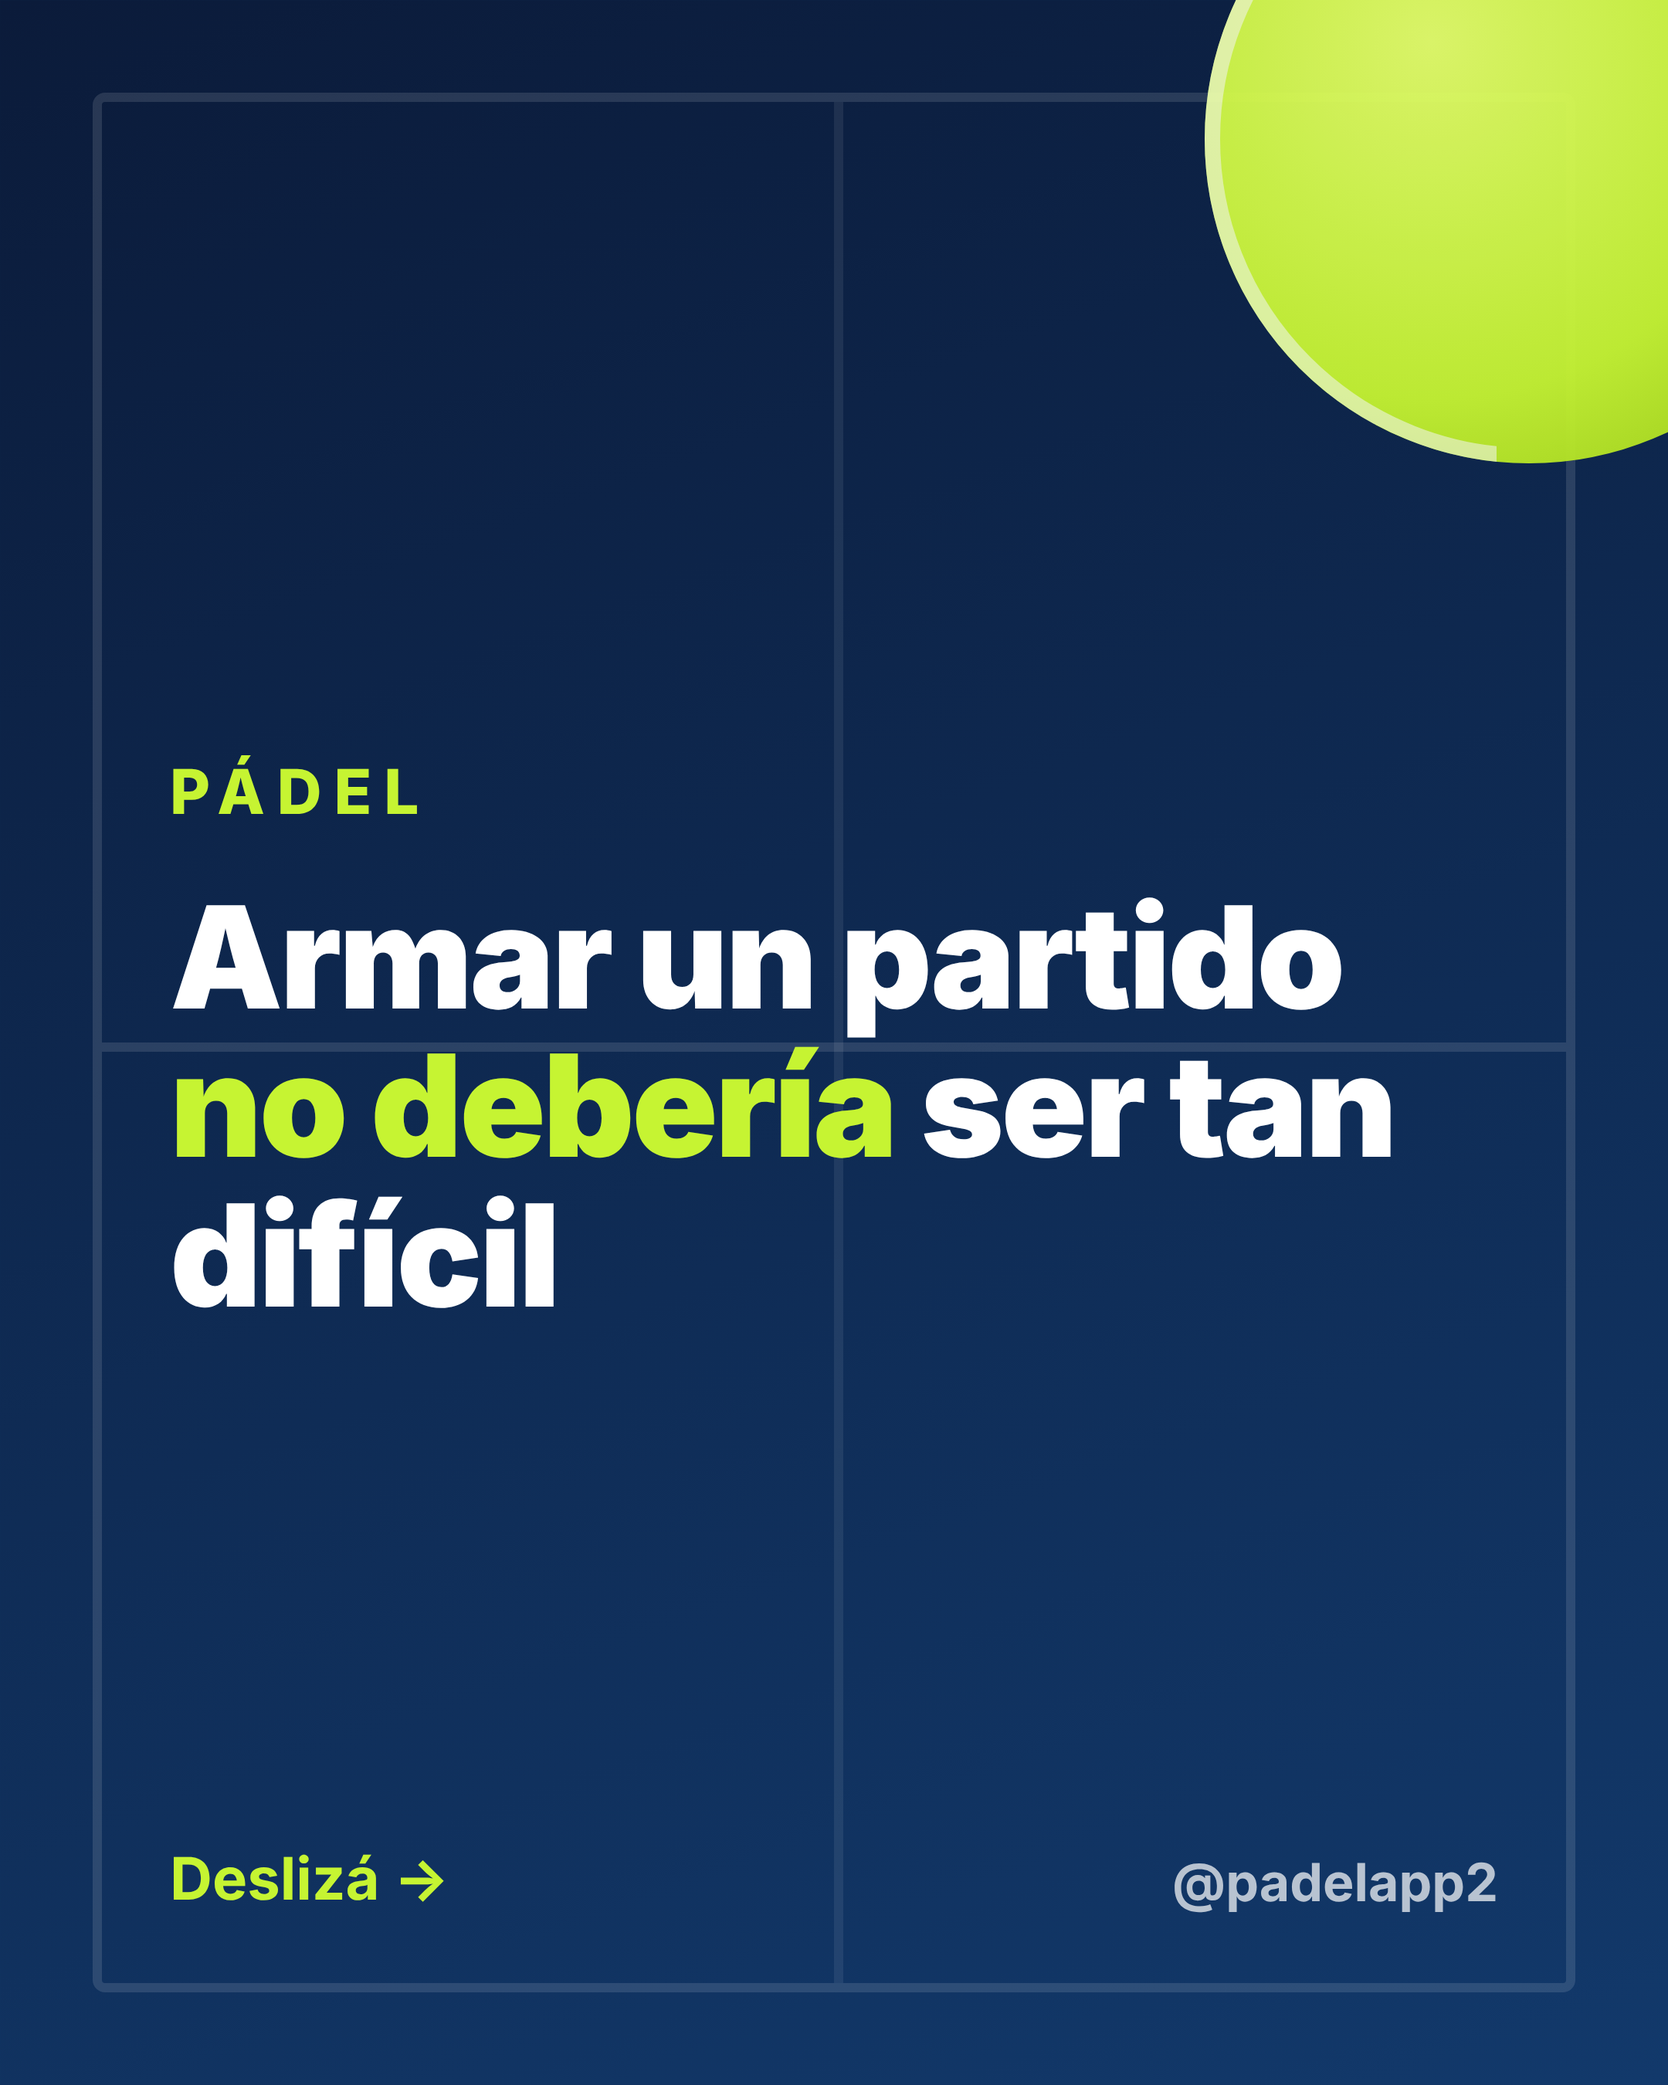
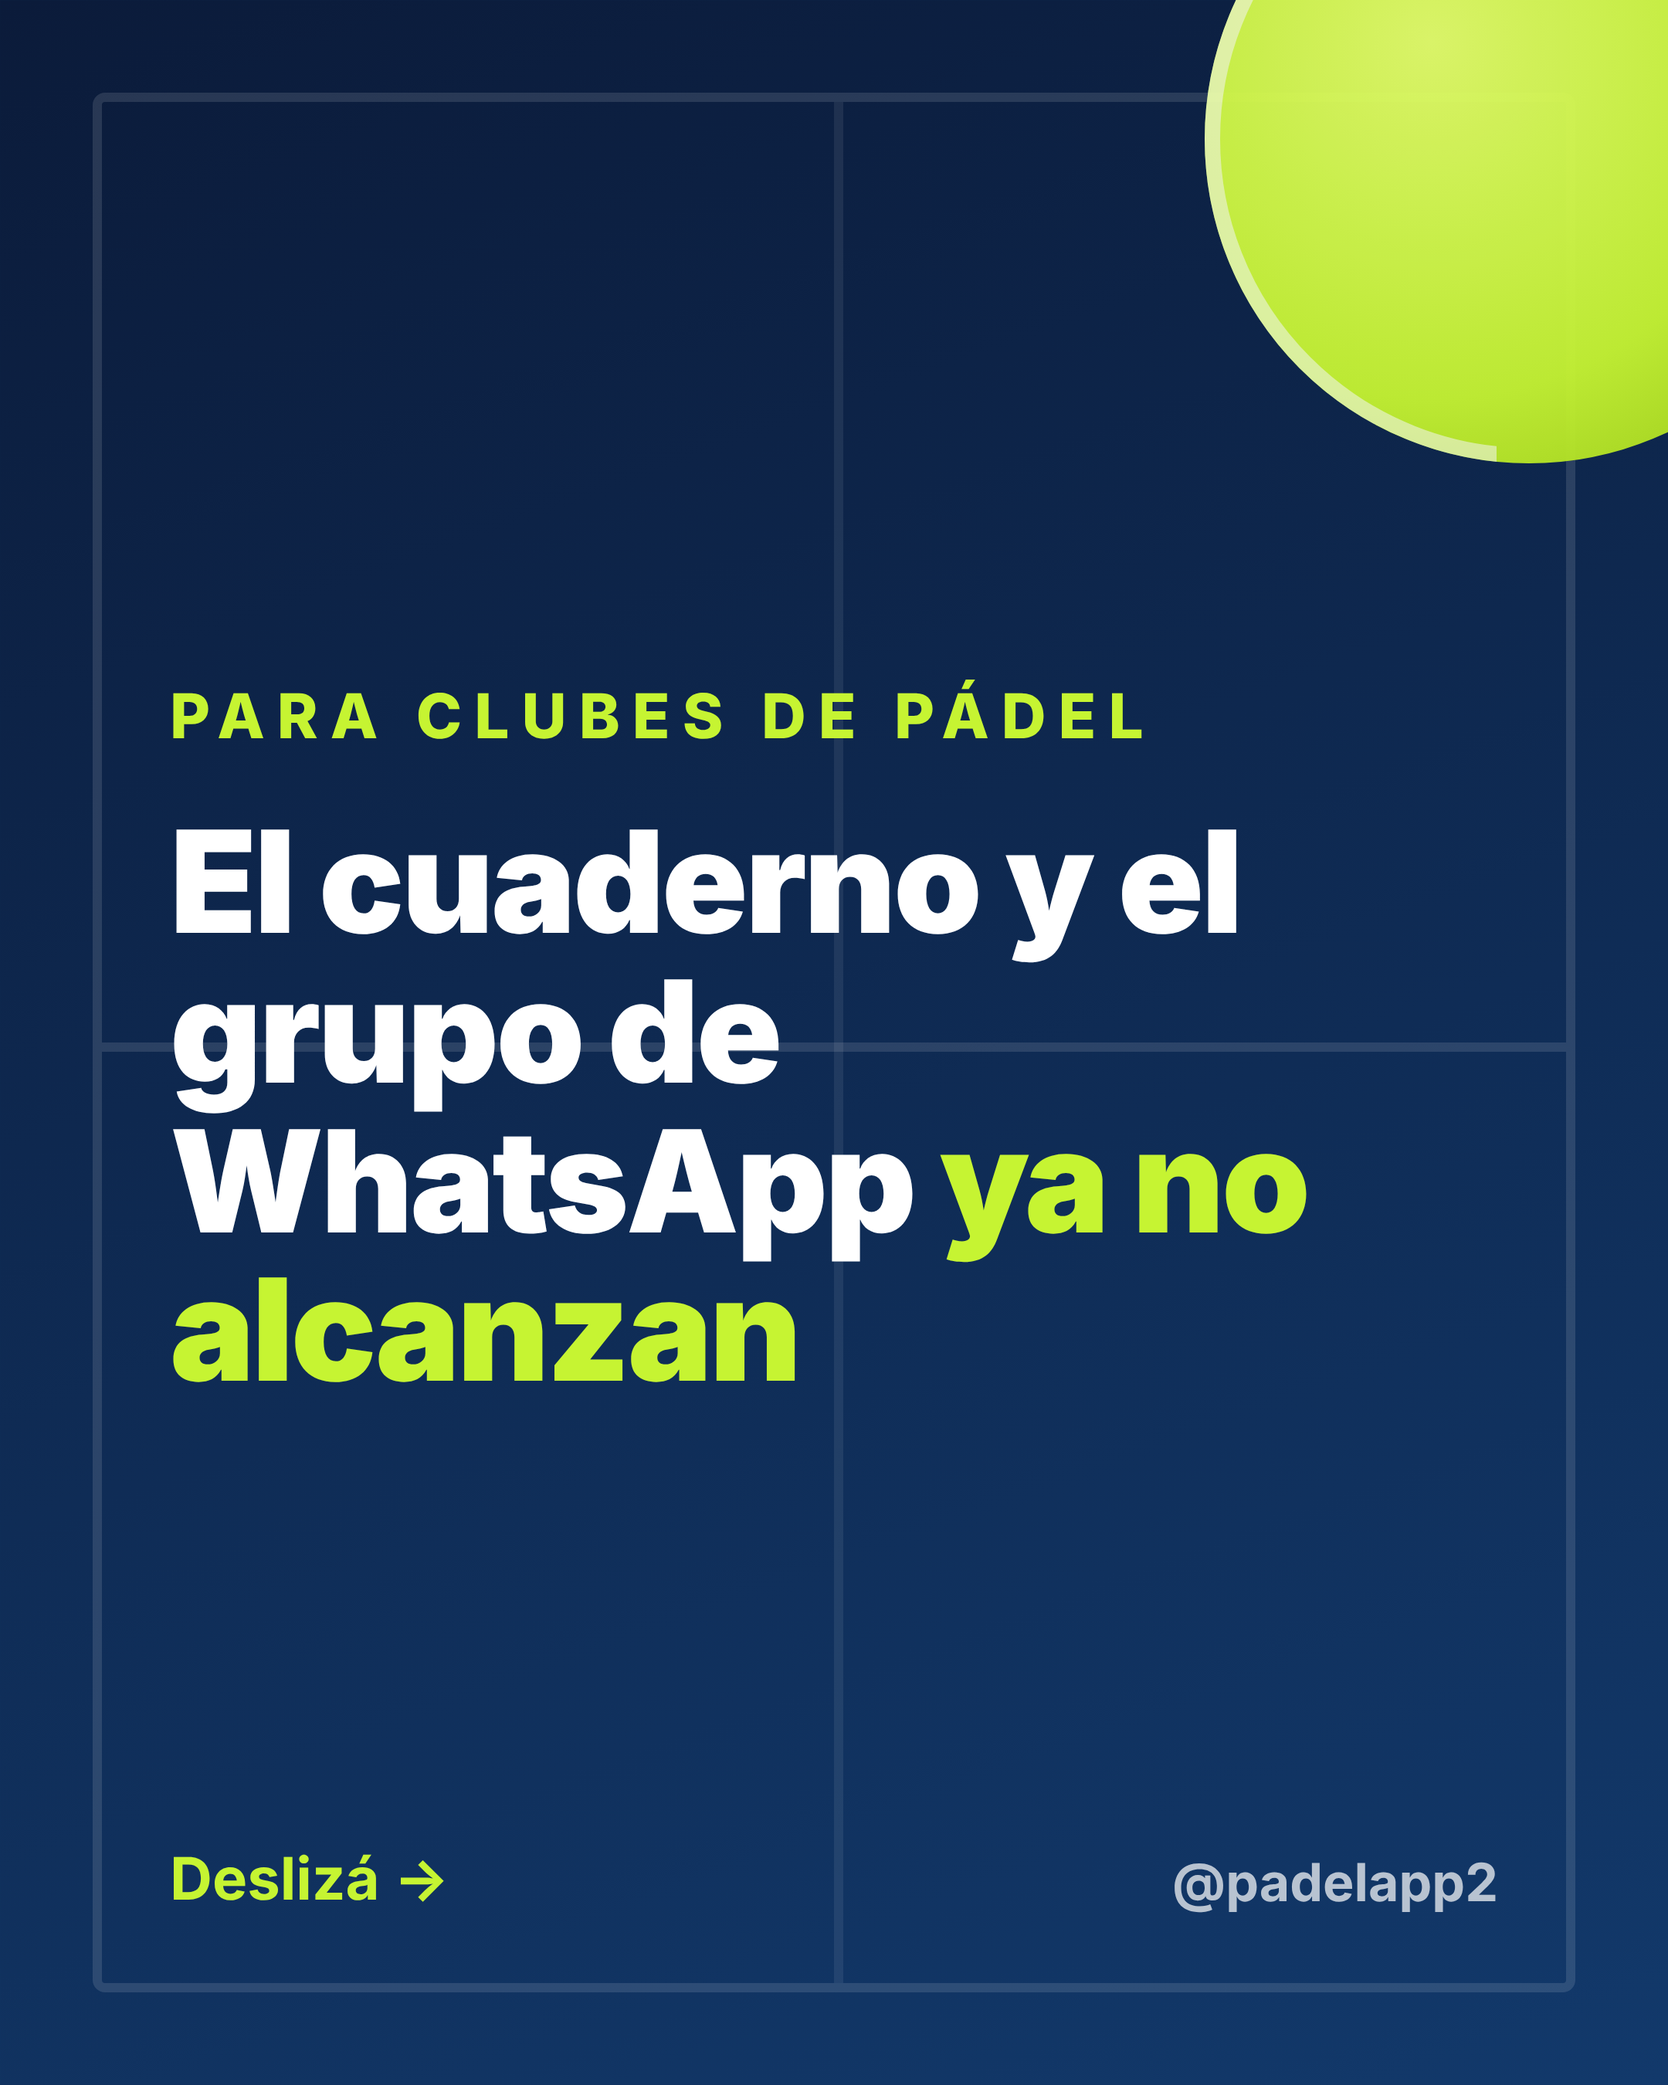
Reorienta contenido de @padelapp2 a clubes (según padelapp2.com)
Claude-Session: https://claude.ai/code/session_01To1USFuoeSKXDPQAnvhjhw

Changed region(s): [[0.0931, 0.3111, 0.8375, 0.6844], [0.4653, 0.3111, 0.6824, 0.3733]]

diff --git a/padelapp2/PLAN-padelapp2.md b/padelapp2/PLAN-padelapp2.md
@@ -1,98 +1,97 @@
-# @padelapp2 · Plan de Community Manager (borrador v1)
+# @padelapp2 · Plan de Community Manager (v2, basado en padelapp2.com)
 
-> **Supuestos a corregir:** Padelapp = app para reservar canchas y armar partidos de pádel. Público: jugadores (clientes finales)
-> y clubes (quienes cargan sus canchas). Zona: Argentina. Tono: cercano, voseo, humor de cancha.
-> Todo lo marcado con `[COMPLETAR]` necesita datos reales de la app (link, funciones, precios, ciudad).
+## 1. Qué vendemos y a quién
+- **Producto:** sistema de gestión web para clubes de pádel. Agenda por cancha, reservas online de los jugadores (sin instalar nada), caja, clientes, buffet, torneos, reportes y tesorería.
+- **Cliente a conseguir:** dueños y administradores de clubes de pádel (Buenos Aires y Argentina). Los jugadores son un canal secundario: reservan desde el celular y empujan al club a adoptar el sistema.
+- **Precios publicados (mensual):** Starter $45.000 (hasta 3 canchas) · Pro $70.000 (hasta 4 canchas, buffet, torneos, facturación, WhatsApp) · Enterprise $150.000 (ilimitado, varias sedes).
+- **Oferta:** 30 días gratis en cualquier plan.
+- **Contacto de venta:** WhatsApp wa.me/542273418842 · padelapp2@gmail.com.
+- **Frases propias de la web (usarlas, ya son la voz de marca):** "Tus jugadores reservan solos. Vos manejás todo el club." · "El cuaderno y el grupo de WhatsApp ya no alcanzan." · "Todo tu club en un solo lugar."
+- **Tono:** directo, voseo, frases cortas, problema → solución.
 
-## 1. Posicionamiento
-- **Promesa:** "Jugá más. Organizá menos."
-- **Dolor que atacamos:** grupos de WhatsApp caóticos, el que se baja a último momento, canchas que no se consiguen.
-- **Dos audiencias, dos mensajes:**
-  - Jugadores → comodidad, partidos completos, reservar rápido.
-  - Clubes → llenar horarios valle, menos llamados y planillas, más reservas.
-- **Identidad visual:** azul marino `#0B1B3A`→`#12396B`, verde pelota `#C6F432`, tipografía Inter negrita. (Cambiar si ya tienen logo y colores.)
+## 2. Objetivo y embudo
+Perfil de Instagram → mensaje por DM o WhatsApp → demo (`/agenda`) → 30 días gratis → plan pago.
+- **Bio sugerida:** "Sistema de gestión para clubes de pádel 🎾 Agenda, caja, buffet y torneos. Tus jugadores reservan solos. 30 días gratis 👇" + link a padelapp2.com o al WhatsApp.
+- **Pendiente:** la web no tiene enlaces a Instagram. Conviene agregar el perfil en el pie de la web.
 
-## 2. Cadencia
-- Feed: 3 por semana (martes, jueves, sábado) · Reels: 2 de esos 3.
-- Stories: 1 a 3 por día con encuestas y "falta uno".
-- Horarios sugeridos para probar (se ajustan con las métricas reales): 12:30, 19:30 y 21:00.
-- Responder comentarios y DMs en menos de 2 horas en horario hábil.
+## 3. Cadencia
+- Feed: 3 por semana (martes, jueves, sábado), 2 de ellos en reel.
+- Stories: 1 a 3 por día, con encuestas y capturas de la demo.
+- Horarios para probar: clubes y administradores responden mejor entre semana, de 9 a 11 h y de 15 a 17 h. Ajustar con las métricas reales.
 
-## 3. Calendario semana 1 (lista para publicar)
-
+## 4. Semana 1 (piezas listas en `contenido/`)
 | Día | Formato | Pieza | Caption |
 |---|---|---|---|
-| Mar | Carrusel (5) | `carrusel-01` a `carrusel-05` | Ver caption A |
-| Jue | Reel (15–20 s) | Guion R1 | Ver caption B |
-| Sáb | Imagen | `clubes-canchas-vacias.png` | Ver caption C |
-| Todos | Story | `story-falta-uno.png` + sticker de link | "¿Te falta uno hoy? 👇" |
+| Mar | Carrusel (5) | `carrusel-01` a `carrusel-05` | A |
+| Jue | Reel | Guion R1 | B |
+| Sáb | Imagen | `planes-precios.png` | C |
+| Todos | Story | `story-cuaderno.png` + sticker de link y encuesta | "¿Todavía en cuaderno? 👀" |
 
 **Caption A (carrusel):**
-> Armar un partido no debería ser tan difícil 😮💨
-> Grupo de WhatsApp con 40 mensajes, uno que se baja a último momento… y la cancha sin reservar.
-> En Padelapp ves canchas, armás el partido y reservás en pocos toques.
-> Descargala desde el link en bio 👆
-> ¿Cuántas veces te pasó? Contanos en los comentarios 👇
-> #padel #padelargentina #padelamigos #jugamospadel #padelapp
+> ¿Todavía anotás los turnos en un cuaderno? 📒
+> El cuaderno y el grupo de WhatsApp ya no alcanzan.
+> Con PadelApp2 manejás agenda, caja, buffet, torneos y reportes en un solo lugar, y tus jugadores reservan solos desde el celular.
+> Probalo 30 días gratis. Escribinos por DM o desde el link en bio 👆
+> #clubdepadel #padelargentina #gestiondeclubes #padel #canchasdepadel
 
 **Caption B (reel):**
-> Cuando alguien se baja 10 minutos antes… 🫠 Con Padelapp lo cubrís en un toque. Link en bio.
-> #padel #padelargentina #padelreels #falta1
+> Así se ve el turno de un club con y sin sistema 👇 Arrastrás, soltás y listo: sin superposiciones. 30 días gratis, link en bio.
+> #clubdepadel #padelargentina #gestiondeclubes
 
-**Caption C (clubes):**
-> ¿Tu club tiene canchas vacías en horarios valle? 🎾
-> Padelapp te ayuda a llenarlas. Escribinos por DM y te contamos cómo.
-> #clubdepadel #padelargentina #gestionclubes
+**Caption C (planes):**
+> Un plan para cada tamaño de club 🎾 Desde $45.000/mes y 30 días gratis en cualquiera. Mirá los planes en padelapp2.com o escribinos por DM.
+> #clubdepadel #padelargentina #emprendedoresdelpadel
 
-**Guion Reel R1 "Falta uno" (15–20 s):**
-1. (0–3 s) Texto en pantalla: "10 min antes del partido…" Plano de celular con grupo de WhatsApp.
-2. (3–7 s) Mensajes: "me bajo", "no puedo", "¿quién se suma?". Cara de resignación.
-3. (7–14 s) Grabación de pantalla de la app: buscar partido → sumarse → confirmado. `[COMPLETAR con capturas reales]`
-4. (14–18 s) Texto: "Falta uno resuelto." + logo + "Link en bio".
-- Audio: tema en tendencia de pádel o sonido original. Subtítulos siempre.
+**Guion Reel R1 "Cuaderno vs. agenda" (15–20 s):**
+1. (0–4 s) Cuaderno con turnos tachados y un celular que suena. Texto: "Turno doble. Otra vez."
+2. (4–12 s) Grabación de pantalla de `/agenda`: arrastrar un turno, cobrar en el momento. Texto: "Sin superposiciones".
+3. (12–16 s) Pantalla de reservas del jugador: "Tus jugadores reservan solos".
+4. (16–20 s) Logo + "30 días gratis · Link en bio".
+- Usar la demo real de padelapp2.com/agenda. Subtítulos siempre.
 
-## 4. Ideas para las semanas 2–4
-- **Semana 2:** "3 errores que todos cometemos en la bandeja" (educativo) · reel POV "el que siempre llega tarde" · testimonio de un jugador.
-- **Semana 3:** tour de la app en 30 s (reel) · carrusel "cómo reservar en 3 pasos" · encuesta en stories "¿derecha o revés?".
-- **Semana 4:** caso de un club `[COMPLETAR]` · sorteo (una hora de cancha o una pala) para ganar seguidores · recopilación de lo mejor del mes.
-- **Fijos:** 1 reel de humor por semana, 1 de utilidad, 1 de prueba social.
+## 5. Ideas para las semanas 2–4
+- **Semana 2:** "5 cosas que pierde un club por no tener cierre de caja" · reel del buffet (stock y cobro integrado) · carrusel de torneos (cuadro automático).
+- **Semana 3:** "¿Cuánto vale una hora de cancha vacía?" (calculadora simple) · reel del reporte de ocupación · testimonio de un club real.
+- **Semana 4:** comparación de planes Starter y Pro · caso de uso de un club chico · preguntas frecuentes en stories.
+- **Prueba social:** la web muestra una franja de clubes que usan el sistema. Pedir permiso para mostrar casos reales antes de nombrarlos.
 
-## 5. Captación por mensajes (DM)
-**Regla:** nada de DMs masivos en frío (Instagram limita la cuenta). Máximo 15–20 mensajes personalizados por día, primero interactuar con el contenido del club (seguir, comentar, ver stories).
+## 6. Captación por mensajes (DM y WhatsApp)
+**Regla:** nada de DMs masivos en frío (Instagram limita la cuenta). Máximo 15–20 por día, personalizados, interactuando antes con la cuenta del club (seguir, comentar, ver stories).
 
 **Primer mensaje a un club:**
-> Hola [Club] 👋 Soy [Nombre] de Padelapp. Vimos que tienen [N] canchas y queríamos preguntarte algo: ¿tienen horarios que les cuesta llenar? Ayudamos a clubes a que los jugadores reserven y armen partidos desde el celular. Si te interesa te cuento en 2 minutos cómo funciona.
+> Hola [Club] 👋 Soy [Nombre] de PadelApp2. Vi que tienen [N] canchas. Hacemos un sistema para clubes de pádel: agenda por cancha, reservas online de los jugadores, caja, buffet y torneos. ¿Hoy cómo llevan los turnos, cuaderno o algún sistema?
 
-**Seguimiento (a los 3 días, si no responde):**
-> ¡Hola de nuevo! Sin apuro 🙂 Te dejo una captura de cómo se ve para el jugador. Si querés, te armo una prueba gratis para [Club]. `[COMPLETAR oferta]`
+**Seguimiento (3 días después):**
+> ¡Hola de nuevo! Te dejo la demo para que la veas sin compromiso: padelapp2.com/agenda. Y si querés, arrancan 30 días gratis con [Club].
 
-**Primer mensaje a un jugador que comenta o sigue la cuenta:**
-> ¡Gracias por seguirnos! 🎾 ¿Jugás seguido? Si querés armar partidos más fácil, te paso el link para probar Padelapp.
+**Si el club dice que sí:**
+> ¡Genial! Te escribo por WhatsApp para armar tu club: wa.me/542273418842. En 15 minutos lo dejamos cargado.
 
 **Objeciones frecuentes:**
-- "Ya usamos otra cosa" → "Perfecto, ¿qué es lo que menos te gusta de ese sistema?"
-- "Es caro" → "Entendido. Probemos sin costo con tus horarios valle y vemos si suma." `[COMPLETAR]`
-- "No tengo tiempo" → "Lo cargamos nosotros. Son 15 minutos."
+- "Ya tenemos un sistema" → "Perfecto. ¿Qué es lo que menos te gusta de ese sistema? Muchos clubes nos cuentan que lo más pesado es [caja/torneos/buffet]."
+- "Es caro" → "Entiendo. Probás 30 días gratis y medís cuántas reservas nuevas entran. El Starter sale $45.000 por mes."
+- "Mis jugadores no van a usarlo" → "No instalan nada: reservan desde el celular con un link. Lo probamos con tus horarios valle."
 
-**Respuestas rápidas a comentarios:** "¿Dónde la descargo?" → "Link en bio 👆 ¡Gracias por preguntar!"
-
-## 6. Publicidad (Meta Ads) — plan inicial
-**Presupuesto sugerido para probar:** USD 5–10 por día durante 2 semanas `[COMPLETAR según el presupuesto real]`.
+## 7. Publicidad (Meta Ads)
+Presupuesto de prueba: USD 5–10 por día durante 2 semanas `[COMPLETAR]`.
 
 | Campaña | Objetivo | Público | Creatividad |
 |---|---|---|---|
-| A. Descargas | Instalaciones de la app | 18–45 años, intereses: pádel, tenis, deportes de raqueta, en tu zona | Carrusel 01–05 y reel R1 |
-| B. Clubes | Mensajes (WhatsApp o Instagram) | Dueños y administradores de clubes: intereses en gestión de clubes deportivos, radio 15–30 km | `clubes-canchas-vacias.png` |
-| C. Retargeting | Conversiones | Quienes vieron el 50 % del reel o visitaron el perfil | Testimonio o oferta |
+| A. Clubes por WhatsApp | Mensajes a WhatsApp | Argentina, 25–60 años, intereses: pádel, gestión de clubes, emprendedores deportivos; empezar por Buenos Aires | Carrusel 01–05 y reel R1 |
+| B. Planes | Tráfico a padelapp2.com | Mismo público | `planes-precios.png` |
+| C. Retargeting | Mensajes | Quienes vieron el 50 % del reel o visitaron el perfil o la web | Prueba social y "30 días gratis" |
 
-**Cómo medirlo:** costo por instalación, costo por conversación iniciada, CTR, frecuencia. Dejar 3–4 días para aprender antes de tocar nada. Pausar creatividades con CTR bajo 0,8 % después de unos 1.000 impresiones. Promocionar primero los posts orgánicos que mejor rindan.
+- **Métricas:** costo por conversación de WhatsApp, CTR, frecuencia y cuántas pasan a demo o prueba. Dejar 3–4 días de aprendizaje.
+- **Requisito:** vincular `@padelapp2` a una página de Facebook y a una cuenta publicitaria propia en Meta Business Suite.
+- **Seguimiento:** instalar el píxel de Meta en padelapp2.com para medir visitas y clics a WhatsApp.
 
-**Requisito:** para anunciar como `@padelapp2`, la cuenta tiene que estar vinculada a una página de Facebook y a una cuenta publicitaria propia (Meta Business Suite).
+## 8. Lista de clubes a contactar
+Armar una planilla (club, zona, canchas, Instagram, estado del contacto). Buscar por hashtags de la zona (#padelbsas, #clubdepadel) y en Google Maps ("club de pádel" + barrio). Con la planilla armada se pueden personalizar los primeros mensajes.
 
-## 7. Qué necesito para el v2
-1. Link de la app, logo, colores y capturas reales.
-2. Funciones reales y diferenciales (para ajustar los textos).
-3. Ciudad o zona y clubes donde ya funciona.
-4. Oferta para clubes y para jugadores.
-5. Presupuesto de anuncios.
-6. Fotos o videos de canchas y partidos (propios o con permiso).
+## 9. Pendientes para v3
+1. Logo y colores oficiales (los de las piezas son provisorios: azul marino `#0B1B3A` y verde `#C6F432`).
+2. Capturas y video de pantalla de la demo para los reels.
+3. Confirmar que los precios son en pesos argentinos y si se mantienen.
+4. Confirmar quién atiende el WhatsApp de ventas y en qué horarios.
+5. Casos de clubes reales con permiso para mostrarlos.
+6. Presupuesto de anuncios.
